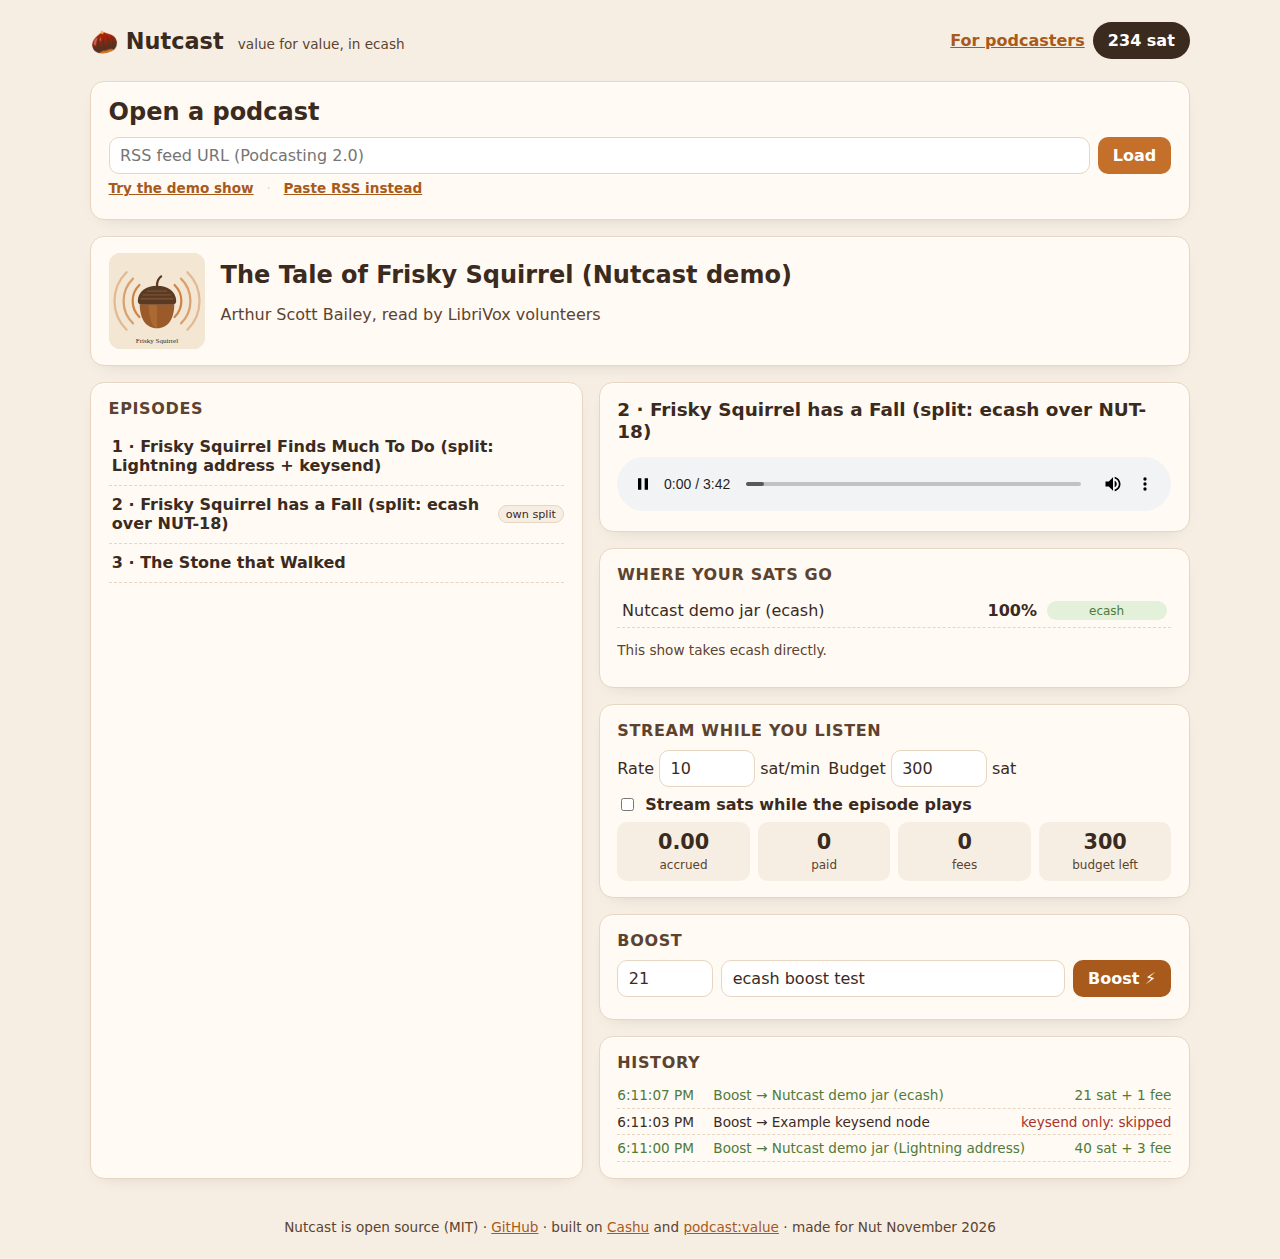
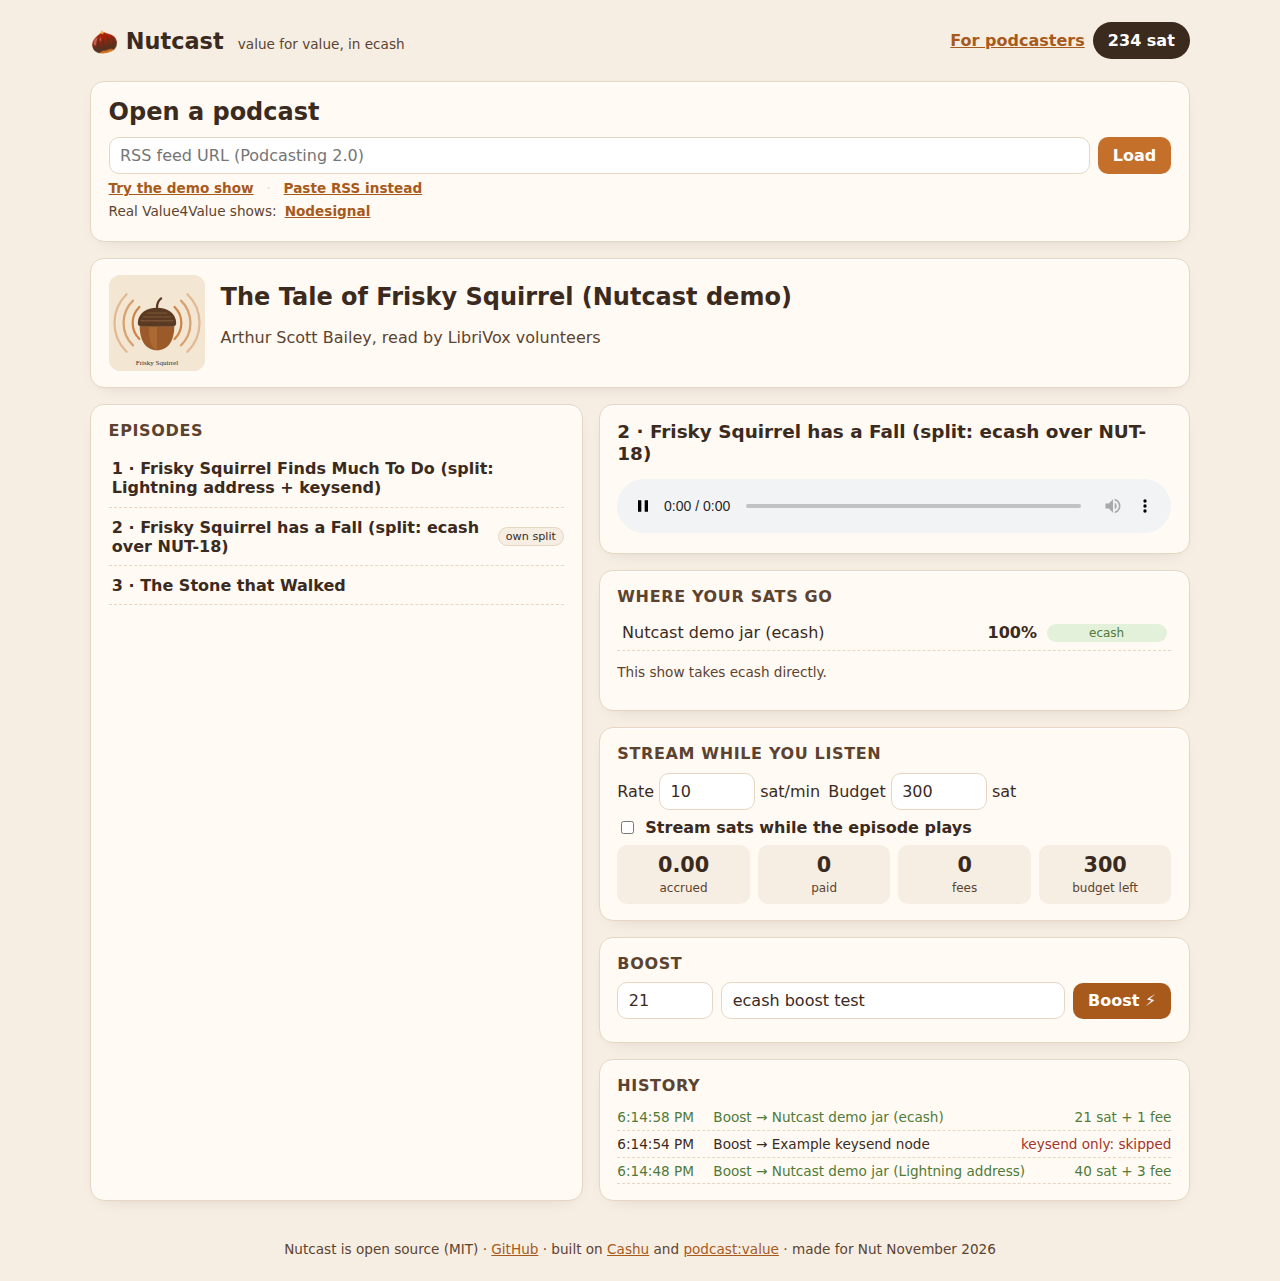
Open a real show (Nodesignal) in one click; suggested mints; cap the feed-suggested rate and apply it to the stream

diff --git a/src/main.ts b/src/main.ts
@@ -25,7 +25,9 @@ function refreshBalance() {
   const b = String(wallet.balance());
   $('balance').textContent = b;
   $('balance2').textContent = b;
-  $('mintWarn').classList.toggle('hidden', !/testnut|localhost|127\.0\.0\.1/.test(mintUrl));
+  const test = /testnut|localhost|127\.0\.0\.1/.test(mintUrl);
+  $('mintWarn').classList.toggle('hidden', !test);
+  $('mintReal').classList.toggle('hidden', test);
 }
 
 function setMint(url: string) {
@@ -170,6 +172,15 @@ $('feedForm').onsubmit = (e) => {
   if (url) loadUrl(url);
 };
 $('demoBtn').onclick = () => loadUrl(new URL('demo.xml', document.baseURI).toString());
+// Real shows whose feeds (and Lightning addresses) let a web page read them.
+const FEATURED = [{ name: 'Nodesignal', url: 'https://serve.podhome.fm/rss/e8df0b13-47de-544a-99b7-ec7cbd960a16' }];
+for (const f of FEATURED) {
+  $('featured').append(el('button', { className: 'link', textContent: f.name, onclick: () => {
+    ($('feedUrl') as HTMLInputElement).value = f.url;
+    history.replaceState(null, '', '?feed=' + encodeURIComponent(f.url));
+    loadUrl(f.url);
+  } }));
+}
 $('pasteBtn').onclick = () => $('pasteXml').classList.toggle('hidden');
 $('pasteXml').oninput = (e) => {
   const v = (e.target as HTMLTextAreaElement).value;
@@ -182,7 +193,9 @@ function select(ep: Episode) {
   $('epTitle').textContent = ep.title;
   const audio = $('audio') as HTMLAudioElement;
   if (ep.enclosureUrl && audio.src !== ep.enclosureUrl) audio.src = ep.enclosureUrl;
-  if (block?.suggestedSatsPerMinute && !rateTouched) ($('rate') as HTMLInputElement).value = String(Math.max(1, Math.round(block.suggestedSatsPerMinute)));
+  // Feeds suggest anything from 5 to 21 000 sat/min; start at most at MAX_DEFAULT_RATE and let the listener raise it.
+  if (block?.suggestedSatsPerMinute && !rateTouched) ($('rate') as HTMLInputElement).value = String(Math.min(MAX_DEFAULT_RATE, Math.max(1, Math.round(block.suggestedSatsPerMinute))));
+  readOpts();
   renderSplit();
 }
 
@@ -215,6 +228,7 @@ function renderSplit() {
 
 // ---------- streaming ----------
 let rateTouched = false;
+const MAX_DEFAULT_RATE = 100;
 const streamer = new Streamer({ satsPerMinute: 10, budgetSats: 300 });
 function readOpts() {
   streamer.opts.satsPerMinute = Math.max(0, Number(($('rate') as HTMLInputElement).value) || 0);

diff --git a/index.html b/index.html
@@ -27,6 +27,7 @@
         <span class="sep">·</span>
         <button id="pasteBtn" class="link">Paste RSS instead</button>
       </div>
+      <div class="row small" id="featured"><span class="muted">Real Value4Value shows:</span></div>
       <textarea id="pasteXml" class="hidden" rows="6" placeholder="Paste the feed's XML here"></textarea>
       <p id="feedError" class="error hidden"></p>
     </section>
@@ -95,8 +96,15 @@
     <form method="dialog" class="dlg">
       <h2>Your ecash wallet</h2>
       <p class="muted small">Ecash lives in this browser. Back it up as a token before you clear site data.</p>
-      <label>Mint <input id="mintUrl" type="url" /></label>
+      <label>Mint <input id="mintUrl" type="url" list="knownMints" /></label>
+      <datalist id="knownMints">
+        <option value="https://testnut.cashu.space">test mint, fake sats</option>
+        <option value="https://mint.minibits.cash/Bitcoin">Minibits</option>
+        <option value="https://mint.macadamia.cash">Macadamia</option>
+        <option value="https://mint.lnvoltz.com">Voltz</option>
+      </datalist>
       <p id="mintWarn" class="warn small hidden">This is a test mint: its Lightning is fake and its sats are not real. Perfect for trying Nutcast.</p>
+      <p id="mintReal" class="small muted hidden">Real sats: the mint holds them for you. Keep only what you will stream and boost.</p>
       <p class="big"><span id="balance2">0</span> sat</p>
 
       <h3>Top up over Lightning</h3>

diff --git a/README.md b/README.md
@@ -5,6 +5,11 @@
 **Live demo:** https://mmajjd926-netizen.github.io/nutcast/ (press *Try the demo show*; the default mint is the
 test mint `testnut.cashu.space`, so top-ups are free and nothing is real money).
 
+**Real show:** [Nodesignal in Nutcast](https://mmajjd926-netizen.github.io/nutcast/?feed=https%3A%2F%2Fserve.podhome.fm%2Frss%2Fe8df0b13-47de-544a-99b7-ec7cbd960a16).
+Its feed and its Lightning addresses allow browser requests, so the whole path runs from the page: every episode's
+split (host + guest Lightning addresses) is read and paid. On the test mint the melt is simulated; pick a real mint
+in the wallet (Minibits, Macadamia, Voltz are suggested) and the same boost is real.
+
 Nutcast is a podcast player that reads a feed's Podcasting 2.0 value split (`<podcast:value>`) and lets listeners
 **stream sats per minute** and **send boosts with a message**, paid from an ecash wallet that lives in the page.
 No node, no channel, no account, no server of ours: it is a static site.
@@ -60,6 +65,7 @@ Episode 2 of the demo show uses such a block. Episode 1 uses a classic Lightning
 
 - Any RSS feed by URL (if the host allows cross-origin reads) or pasted XML; channel and item value blocks
   (item overrides channel); `suggested` sets the default stream rate.
+- The feed's `suggested` rate starts the stream slider, capped at 100 sat/min (some feeds suggest 21 000).
 - Wallet on any mint: NUT-04 top-up with QR, receive a pasted token, NUT-05 melt (with a NUT-07 state check that puts proofs back if a melt fails), and
   **back up** = every proof exported as one token without a swap. Proofs live in `localStorage`.
 - Streaming counts only real listening: the media clock while playing, no seeks, no jumps; per-recipient
